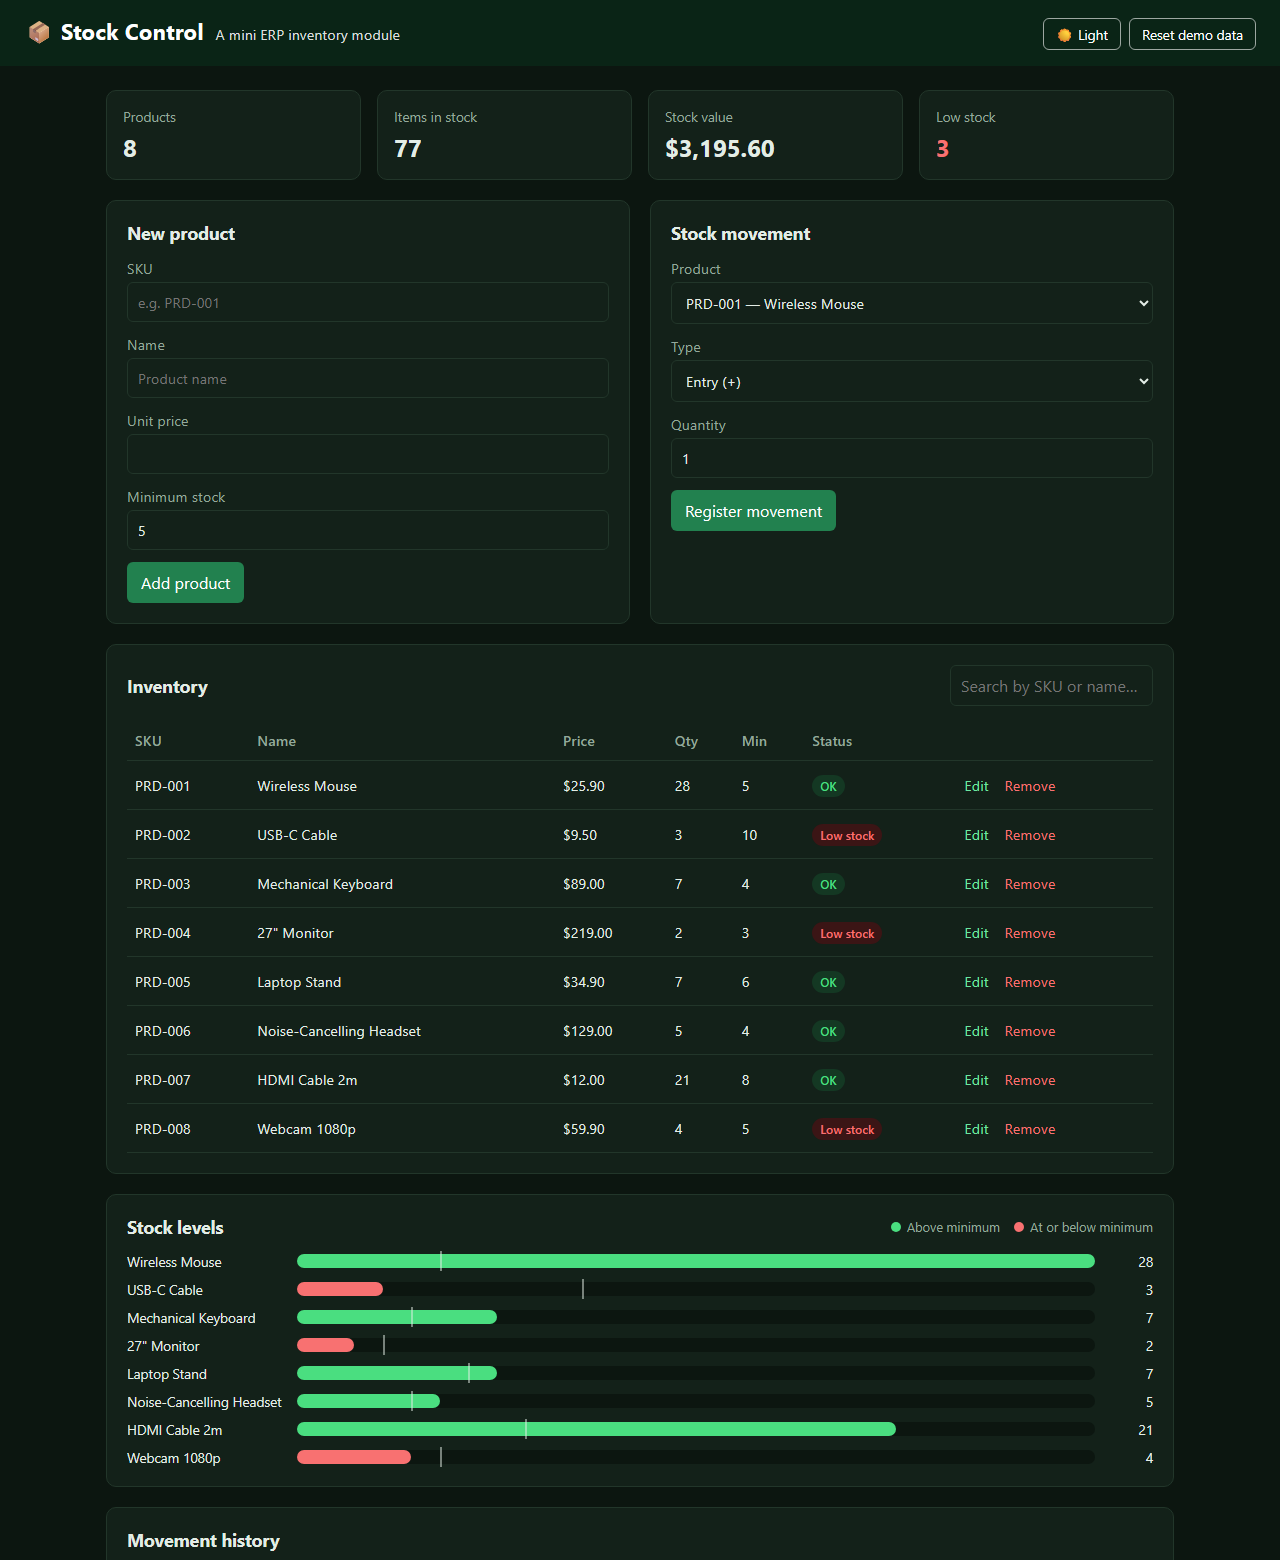
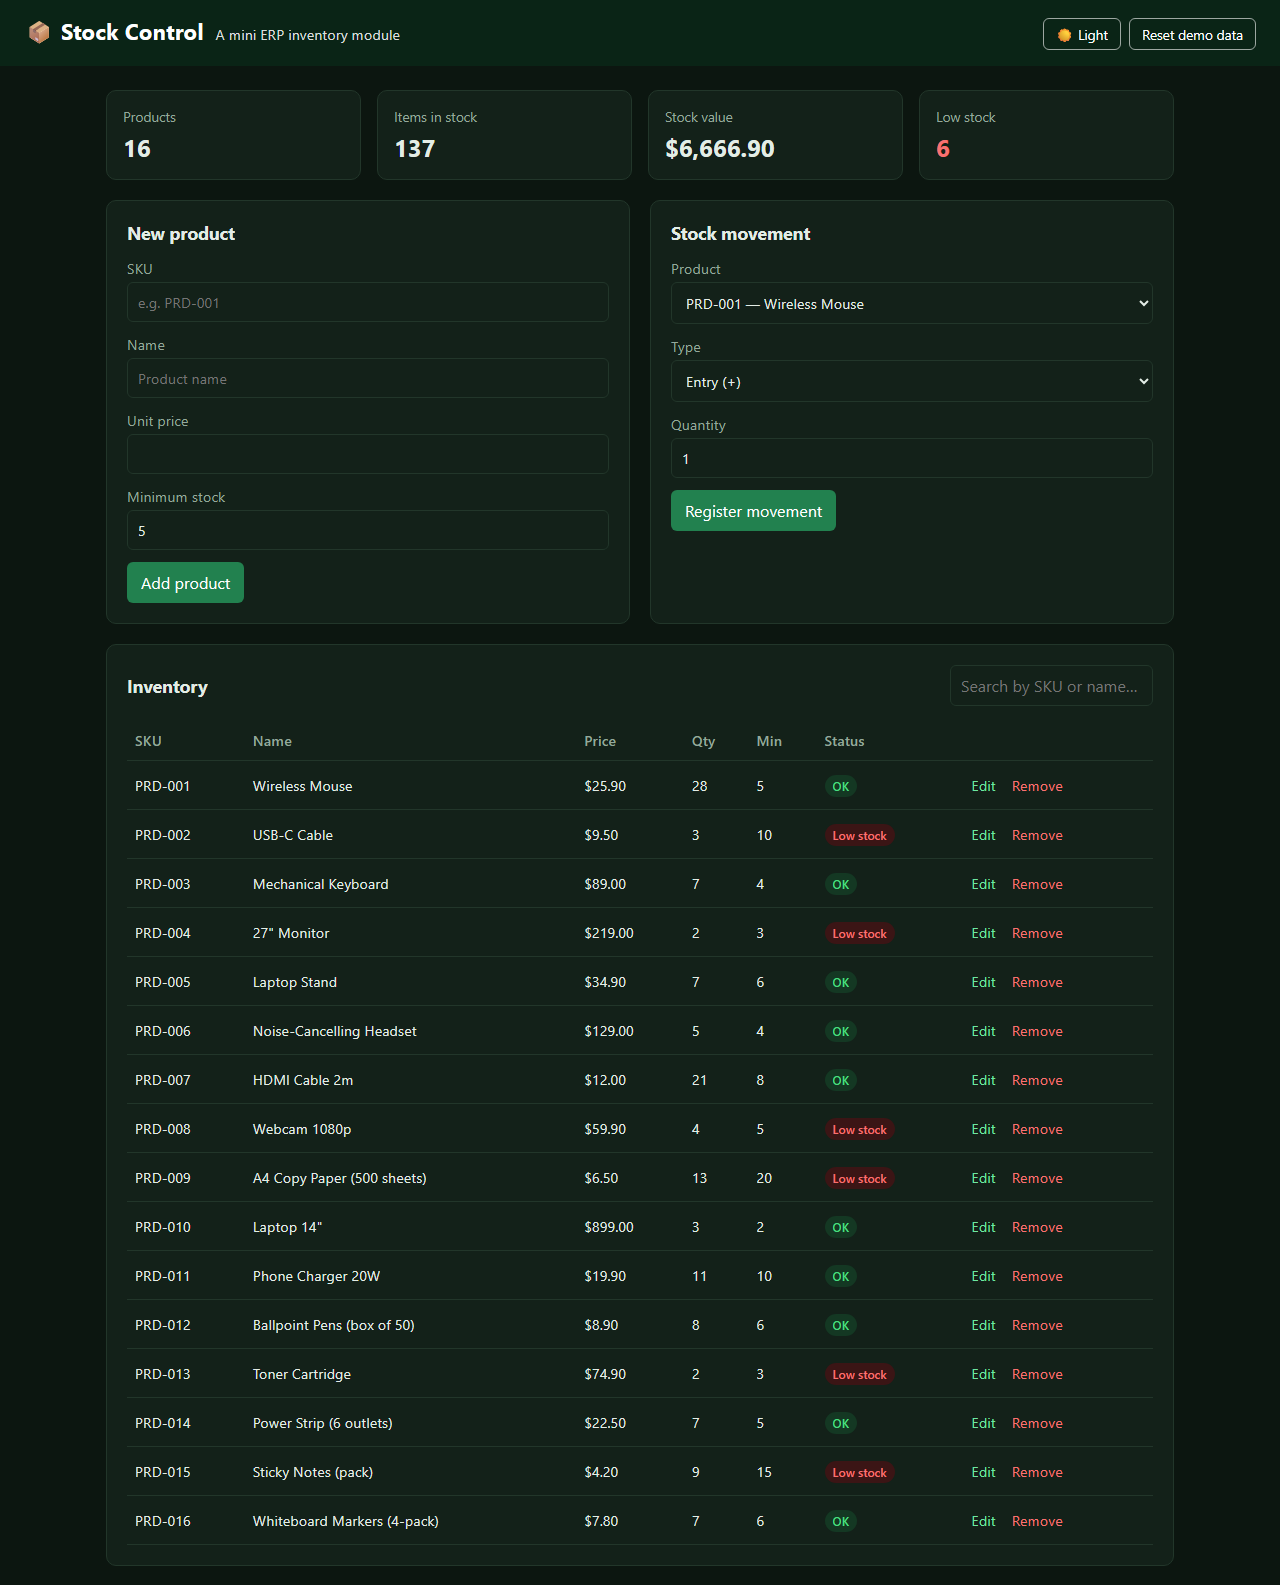
feat: add office supplies to the sample data
8 new products (copy paper, laptop, phone charger, pens, toner, power
strip, sticky notes, whiteboard markers), each with an entry and a few
exits over the last weeks. Screenshots updated.

diff --git a/app.js b/app.js
@@ -26,6 +26,14 @@ function sampleData() {
     { sku: "PRD-006", name: "Noise-Cancelling Headset", price: 129.0, min: 4 },
     { sku: "PRD-007", name: "HDMI Cable 2m", price: 12.0, min: 8 },
     { sku: "PRD-008", name: "Webcam 1080p", price: 59.9, min: 5 },
+    { sku: "PRD-009", name: "A4 Copy Paper (500 sheets)", price: 6.5, min: 20 },
+    { sku: "PRD-010", name: "Laptop 14\"", price: 899.0, min: 2 },
+    { sku: "PRD-011", name: "Phone Charger 20W", price: 19.9, min: 10 },
+    { sku: "PRD-012", name: "Ballpoint Pens (box of 50)", price: 8.9, min: 6 },
+    { sku: "PRD-013", name: "Toner Cartridge", price: 74.9, min: 3 },
+    { sku: "PRD-014", name: "Power Strip (6 outlets)", price: 22.5, min: 5 },
+    { sku: "PRD-015", name: "Sticky Notes (pack)", price: 4.2, min: 15 },
+    { sku: "PRD-016", name: "Whiteboard Markers (4-pack)", price: 7.8, min: 6 },
   ].map((p) => ({ ...p, qty: 0 }));
 
   // [days ago, sku, type, quantity]
@@ -38,6 +46,15 @@ function sampleData() {
     [8, "PRD-005", "out", 7], [7, "PRD-002", "out", 11], [6, "PRD-008", "out", 8],
     [5, "PRD-001", "out", 6], [4, "PRD-004", "out", 3], [3, "PRD-006", "out", 3],
     [2, "PRD-007", "in", 10], [1, "PRD-005", "out", 4], [0, "PRD-001", "in", 10],
+    [26, "PRD-009", "in", 100], [20, "PRD-009", "out", 25], [14, "PRD-009", "out", 30],
+    [9, "PRD-009", "out", 20], [3, "PRD-009", "out", 12],
+    [23, "PRD-010", "in", 7], [16, "PRD-010", "out", 2], [11, "PRD-010", "out", 1], [2, "PRD-010", "out", 1],
+    [22, "PRD-011", "in", 30], [18, "PRD-011", "out", 8], [10, "PRD-011", "out", 6], [4, "PRD-011", "out", 5],
+    [25, "PRD-012", "in", 15], [15, "PRD-012", "out", 4], [6, "PRD-012", "out", 3],
+    [21, "PRD-013", "in", 6], [13, "PRD-013", "out", 2], [5, "PRD-013", "out", 2],
+    [20, "PRD-014", "in", 12], [12, "PRD-014", "out", 3], [1, "PRD-014", "out", 2],
+    [24, "PRD-015", "in", 40], [17, "PRD-015", "out", 10], [8, "PRD-015", "out", 12], [2, "PRD-015", "out", 9],
+    [22, "PRD-016", "in", 16], [11, "PRD-016", "out", 5], [3, "PRD-016", "out", 4],
   ];
 
   const history = moves.map(([daysAgo, sku, type, qty], i) => {
@@ -49,6 +66,9 @@ function sampleData() {
     product.qty += type === "in" ? qty : -qty;
     return { sku, type, qty, date: date.toISOString() };
   });
+
+  // Chronological order, whatever order the movements were listed in
+  history.sort((a, b) => a.date.localeCompare(b.date));
 
   return { products, history };
 }
